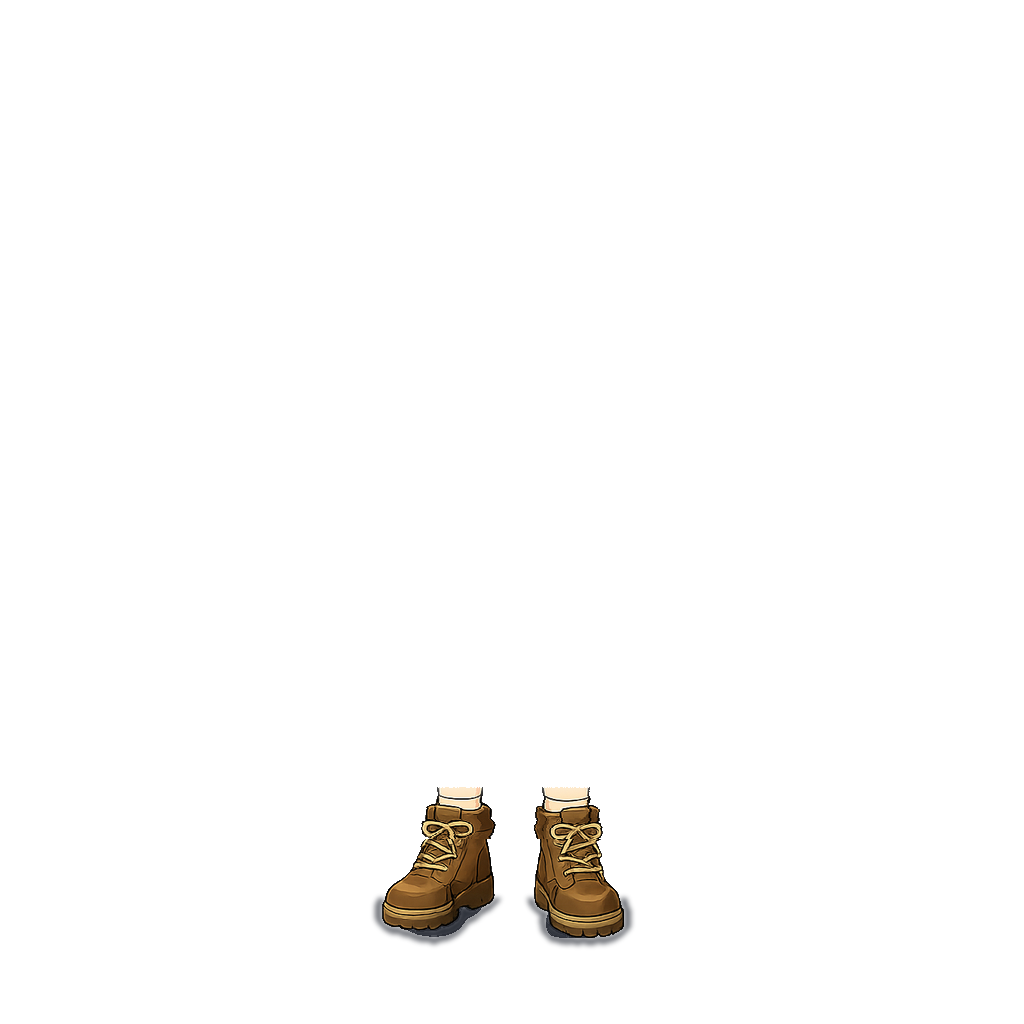
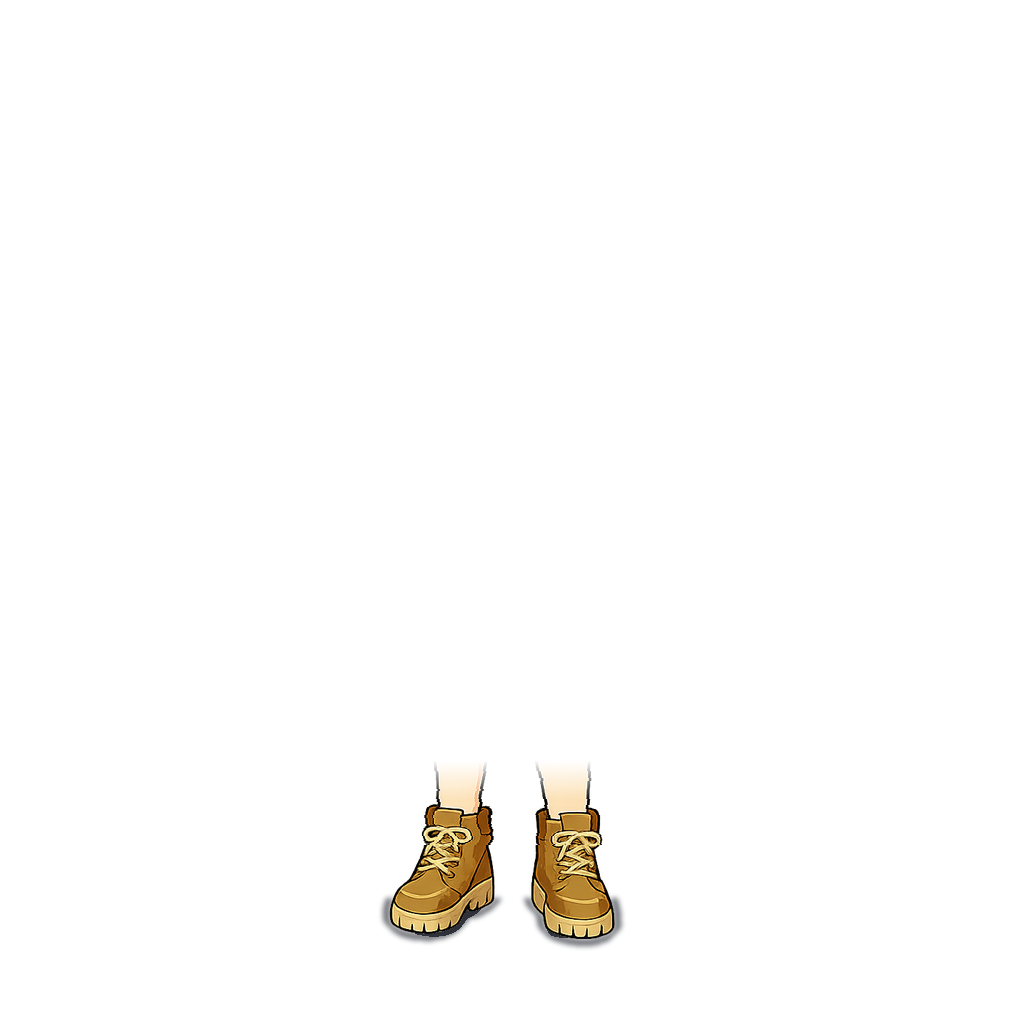
탐험 부츠 맨발목 버전 교체: 양말 밴드 제거로 발목 자연스러움 개선
- 양말 없는 착용 원화로 재제작 (베이스 양말은 부츠 본체가 100% 커버 — 사전 검증 완료)
- 표준 파이프라인 전체 적용: 스냅 후 어긋남 0.4px, 발 주변 밝은 잔여 0px
- 원화 art-src 보관 및 매핑표 갱신

Changed region(s): [[0.3438, 0.75, 0.625, 0.9375]]

diff --git a/art-src/README.md b/art-src/README.md
@@ -9,7 +9,8 @@ ChatGPT로 생성한 **가공 전 원본 이미지**를 보관한다. 배포(dis
 |---|---|---|
 | base-boy.png | 남아 아바타 베이스 원화 | avatar/base/default.webp |
 | base-girl.png | 여아 아바타 베이스 원화 (v2, 승인본) | avatar/base/default-girl.webp |
-| boots-explorer-wearing.png | 탐험 부츠 착용 원화 (투명배경) | avatar/shoes/explorer-boots.webp |
+| boots-explorer-wearing.png | 탐험 부츠 착용 원화 (양말 버전, 구) | (교체됨) |
+| boots-explorer-sockless.png | 탐험 부츠 착용 원화 (맨발목, 현행) | avatar/shoes/explorer-boots.webp |
 | boots-green-wearing.png | 새싹 부츠 착용 원화 | avatar/shoes/green-boots.webp |
 | boots-cream-wearing.png | 크림 부츠 착용 원화 | avatar/shoes/cream-boots.webp |
 | boots-desert-wearing-retired.png | 모래 부츠 원화 (판매 중단, 보관용) | (은퇴) |
